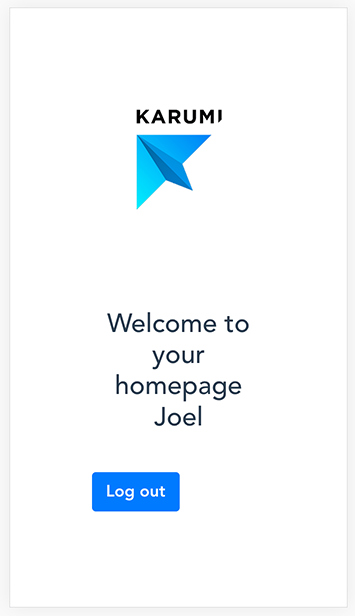
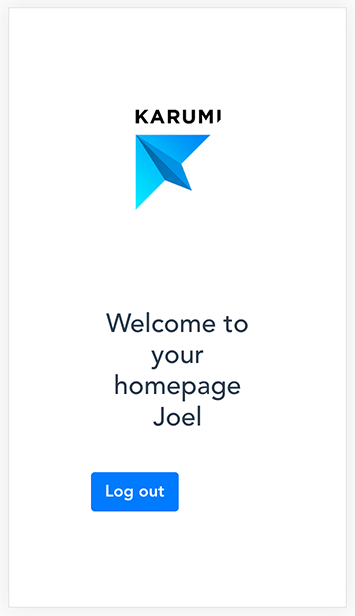
Improve and review views' styles in all resolutions and generate screenshots.

diff --git a/dist/js/app.452bd57b.js b/dist/js/app.452bd57b.js
@@ -1,0 +1,2 @@
+(function(e){function t(t){for(var o,l,u=t[0],s=t[1],c=t[2],p=0,f=[];p<u.length;p++)l=u[p],Object.prototype.hasOwnProperty.call(r,l)&&r[l]&&f.push(r[l][0]),r[l]=0;for(o in s)Object.prototype.hasOwnProperty.call(s,o)&&(e[o]=s[o]);i&&i(t);while(f.length)f.shift()();return a.push.apply(a,c||[]),n()}function n(){for(var e,t=0;t<a.length;t++){for(var n=a[t],o=!0,u=1;u<n.length;u++){var s=n[u];0!==r[s]&&(o=!1)}o&&(a.splice(t--,1),e=l(l.s=n[0]))}return e}var o={},r={app:0},a=[];function l(t){if(o[t])return o[t].exports;var n=o[t]={i:t,l:!1,exports:{}};return e[t].call(n.exports,n,n.exports,l),n.l=!0,n.exports}l.m=e,l.c=o,l.d=function(e,t,n){l.o(e,t)||Object.defineProperty(e,t,{enumerable:!0,get:n})},l.r=function(e){"undefined"!==typeof Symbol&&Symbol.toStringTag&&Object.defineProperty(e,Symbol.toStringTag,{value:"Module"}),Object.defineProperty(e,"__esModule",{value:!0})},l.t=function(e,t){if(1&t&&(e=l(e)),8&t)return e;if(4&t&&"object"===typeof e&&e&&e.__esModule)return e;var n=Object.create(null);if(l.r(n),Object.defineProperty(n,"default",{enumerable:!0,value:e}),2&t&&"string"!=typeof e)for(var o in e)l.d(n,o,function(t){return e[t]}.bind(null,o));return n},l.n=function(e){var t=e&&e.__esModule?function(){return e["default"]}:function(){return e};return l.d(t,"a",t),t},l.o=function(e,t){return Object.prototype.hasOwnProperty.call(e,t)},l.p="/";var u=window["webpackJsonp"]=window["webpackJsonp"]||[],s=u.push.bind(u);u.push=t,u=u.slice();for(var c=0;c<u.length;c++)t(u[c]);var i=s;a.push([0,"chunk-vendors"]),n()})({0:function(e,t,n){e.exports=n("cd49")},"034f":function(e,t,n){"use strict";var o=n("85ec"),r=n.n(o);r.a},"047e":function(e,t,n){},"0573":function(e,t,n){"use strict";var o=n("047e"),r=n.n(o);r.a},4652:function(e,t,n){"use strict";var o=n("c8a3"),r=n.n(o);r.a},"65eb":function(e,t,n){"use strict";var o=n("6bb6"),r=n.n(o);r.a},"6bb6":function(e,t,n){},"85ec":function(e,t,n){},c8a3:function(e,t,n){},cd49:function(e,t,n){"use strict";n.r(t);n("e260"),n("e6cf"),n("cca6"),n("a79d");var o=n("2b0e"),r=n("5f5b"),a=(n("f9e3"),n("2dd8"),function(){var e=this,t=e.$createElement,n=e._self._c||t;return n("div",{attrs:{id:"app"}},[n("router-view")],1)}),l=[],u=(n("034f"),n("2877")),s={},c=Object(u["a"])(s,a,l,!1,null,null,null),i=c.exports,p=n("8c4f"),f=function(){var e=this,t=e.$createElement,n=e._self._c||t;return n("div",{staticClass:"home"},[n("div",{staticClass:"logo"},[n("LogoComponent")],1),n("div",{staticClass:"content"},[n("h2",{staticClass:"mb-5"},[e._v("Welcome to your homepage Joel")]),n("ButtonComponent",{attrs:{name:"Log out"}})],1)])},d=[],m=function(){var e=this,t=e.$createElement;e._self._c;return e._m(0)},v=[function(){var e=this,t=e.$createElement,o=e._self._c||t;return o("div",[o("img",{attrs:{alt:"Karumi logo",src:n("cf05")}})])}],b=(n("0573"),{}),h=Object(u["a"])(b,m,v,!1,null,"17eabf40",null),g=h.exports,y=function(){var e=this,t=e.$createElement,n=e._self._c||t;return n("div",[n("b-button",{attrs:{size:"lg",variant:"primary"}},[n("span",[e._v(" "+e._s(e.name)+" ")])])],1)},_=[],C={props:{name:{type:String,default:"Send",required:!1}}},O=C,w=(n("d349"),Object(u["a"])(O,y,_,!1,null,"04e58670",null)),j=w.exports,x={name:"Home",components:{LogoComponent:g,ButtonComponent:j}},S=x,E=(n("65eb"),Object(u["a"])(S,f,d,!1,null,"605fb5f4",null)),P=E.exports,$=function(){var e=this,t=e.$createElement,n=e._self._c||t;return n("div",{staticClass:"login"},[n("div",{staticClass:"logo"},[n("LogoComponent")],1),n("div",{staticClass:"content"},[n("EmailInputComponent",{staticClass:"mb-3",attrs:{placeholder:"Username"}}),n("PasswordInputComponent",{staticClass:"mb-5",attrs:{placeholder:"Password"}}),n("ButtonComponent",{attrs:{name:"Login"}})],1)])},I=[],L=function(){var e=this,t=e.$createElement,n=e._self._c||t;return n("InputComponent",{attrs:{type:"email",placeholder:e.placeholder}})},q=[],B=function(){var e=this,t=e.$createElement,n=e._self._c||t;return n("b-form-input",{attrs:{type:e.type,placeholder:e.placeholder}})},M=[],k={props:{type:{type:String,default:"text",required:!1},placeholder:{type:String,default:"",required:!1}}},J=k,T=Object(u["a"])(J,B,M,!1,null,"15478e41",null),H=T.exports,z={components:{InputComponent:H},props:{placeholder:{type:String,default:"",required:!1}}},K=z,U=Object(u["a"])(K,L,q,!1,null,null,null),W=U.exports,A=function(){var e=this,t=e.$createElement,n=e._self._c||t;return n("InputComponent",{attrs:{type:"password",placeholder:e.placeholder}})},D=[],F={components:{InputComponent:H},props:{placeholder:{type:String,default:"",required:!1}}},G=F,N=Object(u["a"])(G,A,D,!1,null,null,null),Q=N.exports,R={name:"Login",components:{LogoComponent:g,EmailInputComponent:W,PasswordInputComponent:Q,ButtonComponent:j}},V=R,X=(n("4652"),Object(u["a"])(V,$,I,!1,null,"2bad9ea0",null)),Y=X.exports,Z=[{path:"/",name:"Home",component:P},{path:"/login",name:"Login",component:Y}],ee=Z;o["default"].use(p["a"]);var te=new p["a"]({mode:"history",base:"/",routes:ee}),ne=te,oe=n("2f62");o["default"].use(oe["a"]);var re=new oe["a"].Store({state:{},mutations:{},actions:{},modules:{}});o["default"].config.productionTip=!1,o["default"].use(r["a"]),new o["default"]({router:ne,store:re,render:function(e){return e(i)}}).$mount("#app")},cf05:function(e,t,n){e.exports=n.p+"img/logo.a1f5b260.png"},d349:function(e,t,n){"use strict";var o=n("f251"),r=n.n(o);r.a},f251:function(e,t,n){}});
+//# sourceMappingURL=app.452bd57b.js.map

diff --git a/dist/index.html b/dist/index.html
@@ -1,3 +1,3 @@
 <!DOCTYPE html><html lang=en><head><meta charset=utf-8><meta http-equiv=X-UA-Compatible content="IE=edge"><meta name=viewport content="width=device-width,initial-scale=1"><link rel=icon href=/favicon.ico><title>Karumi Test Proposal</title><style>html, body, div#app {
         height: 100%;
-      }</style><link href=/css/app.72f8d404.css rel=preload as=style><link href=/css/chunk-vendors.cbc2a074.css rel=preload as=style><link href=/js/app.14a18efc.js rel=preload as=script><link href=/js/chunk-vendors.314f88b6.js rel=preload as=script><link href=/css/chunk-vendors.cbc2a074.css rel=stylesheet><link href=/css/app.72f8d404.css rel=stylesheet></head><body><noscript><strong>We're sorry but karumi-test-proposal doesn't work properly without JavaScript enabled. Please enable it to continue.</strong></noscript><div id=app></div><script src=/js/chunk-vendors.314f88b6.js></script><script src=/js/app.14a18efc.js></script></body></html>
+      }</style><link href=/css/app.8b8c46ec.css rel=preload as=style><link href=/css/chunk-vendors.cbc2a074.css rel=preload as=style><link href=/js/app.452bd57b.js rel=preload as=script><link href=/js/chunk-vendors.314f88b6.js rel=preload as=script><link href=/css/chunk-vendors.cbc2a074.css rel=stylesheet><link href=/css/app.8b8c46ec.css rel=stylesheet></head><body><noscript><strong>We're sorry but karumi-test-proposal doesn't work properly without JavaScript enabled. Please enable it to continue.</strong></noscript><div id=app></div><script src=/js/chunk-vendors.314f88b6.js></script><script src=/js/app.452bd57b.js></script></body></html>

diff --git a/dist/css/app.8b8c46ec.css b/dist/css/app.8b8c46ec.css
@@ -1,0 +1,1 @@
+#app{font-family:Avenir,Helvetica,Arial,sans-serif;-webkit-font-smoothing:antialiased;-moz-osx-font-smoothing:grayscale;text-align:center;color:#2c3e50;padding:50px;display:flex;flex-direction:row;align-items:stretch;height:100%}#app,#app>div{margin:0 auto}img[data-v-17eabf40]{width:60%;min-width:80px}div[data-v-04e58670]{text-align:left}span[data-v-04e58670]{font-weight:700}.home[data-v-605fb5f4]{width:100%;max-width:500px;display:flex;flex-direction:column}.home>div[data-v-605fb5f4]{flex:1}.logo[data-v-605fb5f4]{display:flex;align-items:center;justify-content:center;align-content:center}.content[data-v-605fb5f4]{display:flex;flex-direction:column;padding:50px}.login[data-v-2bad9ea0]{width:100%;max-width:500px;display:flex;flex-direction:column}.login>div[data-v-2bad9ea0]{flex:1}.logo[data-v-2bad9ea0]{display:flex;align-items:center;justify-content:center;align-content:center}.content[data-v-2bad9ea0]{display:flex;flex-direction:column}

diff --git a/src/App.vue b/src/App.vue
@@ -16,20 +16,10 @@
   display: flex;
   flex-direction: row;
   align-items: stretch;
-  align-content: stretch;
   height: 100%;
 }
 
-#nav {
-  padding: 30px;
-}
-
-#nav a {
-  font-weight: bold;
-  color: #2c3e50;
-}
-
-#nav a.router-link-exact-active {
-  color: #42b983;
+#app > div {
+  margin: 0 auto;
 }
 </style>

diff --git a/src/views/Login.vue b/src/views/Login.vue
@@ -30,6 +30,7 @@ export default {
 <style scoped>
 .login {
   width: 100%;
+  max-width: 500px;
   display: flex;
   flex-direction: column;
 }
@@ -48,6 +49,5 @@ export default {
 .content {
   display: flex;
   flex-direction: column;
-  padding: 50px;
 }
 </style>

diff --git a/src/views/Home.vue b/src/views/Home.vue
@@ -25,6 +25,7 @@ export default {
 <style scoped>
 .home {
   width: 100%;
+  max-width: 500px;
   display: flex;
   flex-direction: column;
 }
